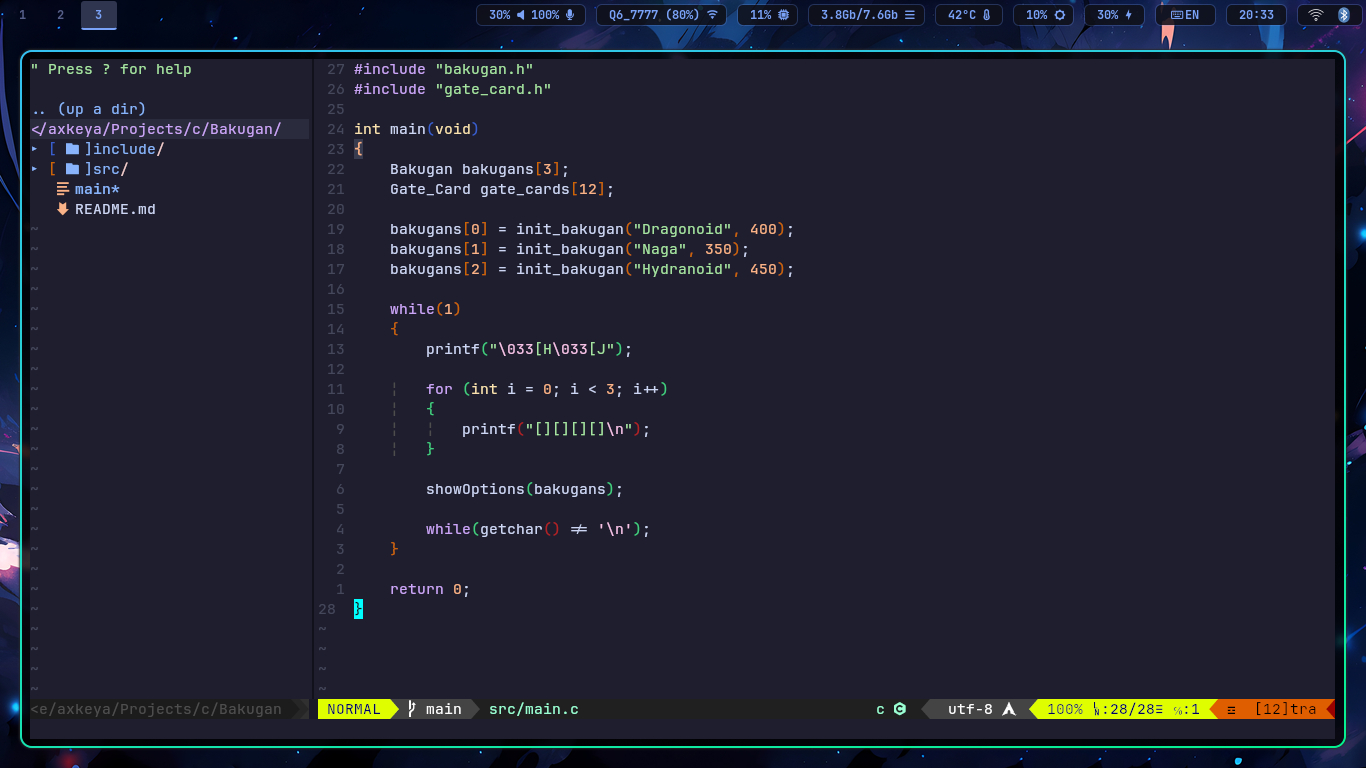
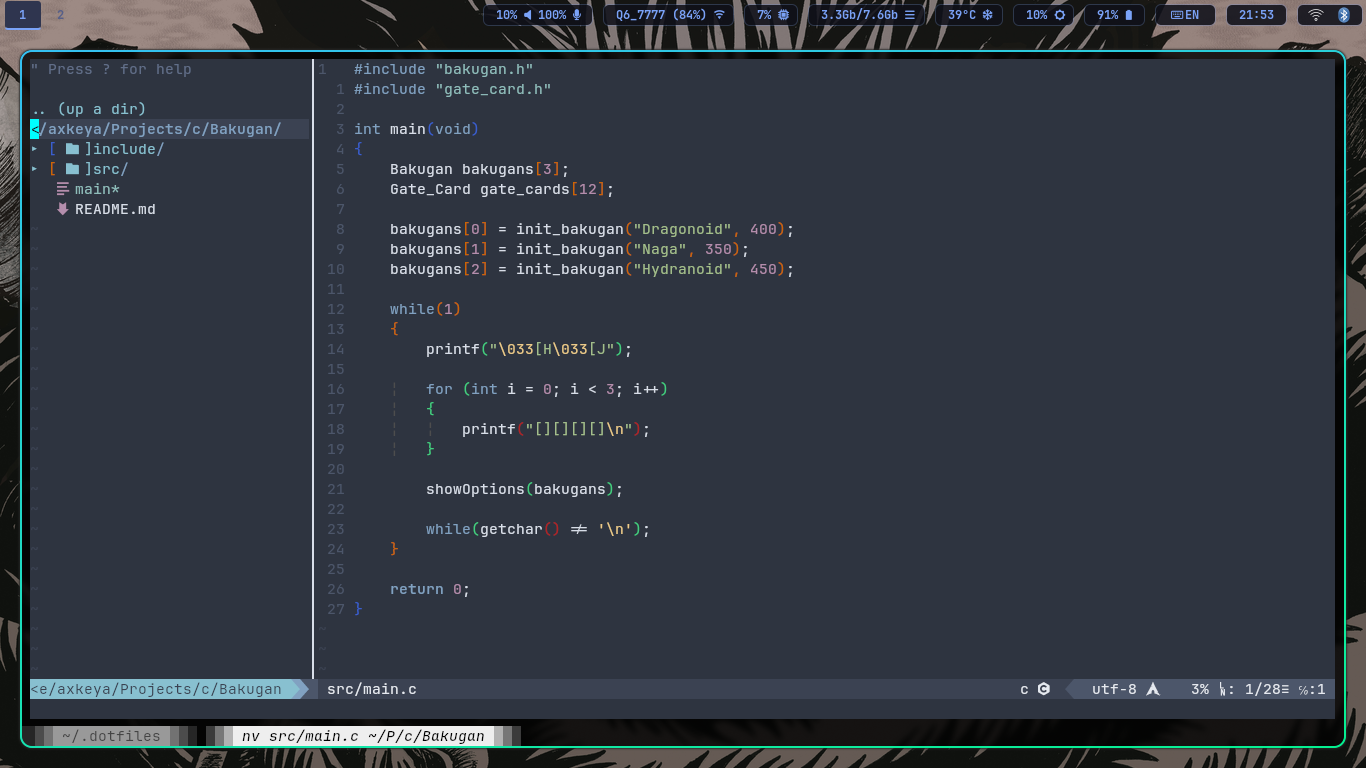
NeoVim Update 2

diff --git a/README.md b/README.md
@@ -22,7 +22,7 @@ Includes multiple layouts togglable on the fly via `toggle-style.sh`.
 
 Custom Rofi setup featuring custom themes and utility scripts for power control, wallpaper management, and device switching.
 
-| Application Launcher | Power Menu | Wallpaper Menu |
+| Application Launcher | Power Menu | Wallpaper Menu | Emoji Menu
 | :---: | :---: | :---: |
 | ![Rofi Launcher](./assets/rofi-menu.png) | ![Rofi Power Menu](./assets/rofi-powermenu.png) | ![Rofi Wallpaper Menu](./assets/rofi-wallmenu.png) |
 
